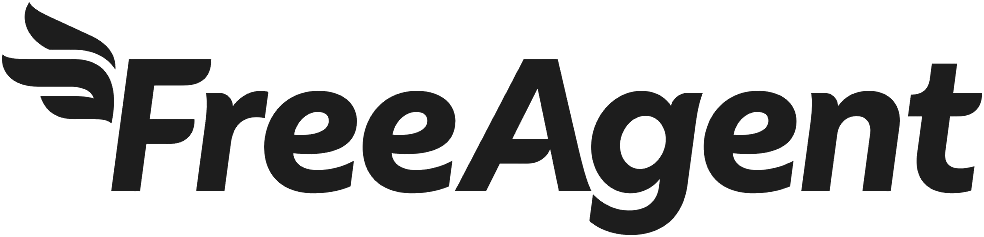
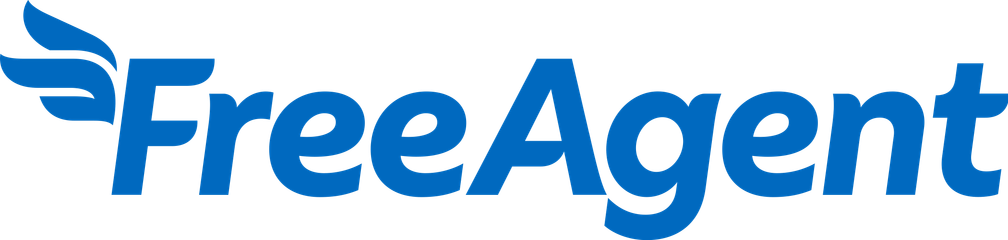
Updated home, header and forms

diff --git a/src/styles/pages.css b/src/styles/pages.css
@@ -59,6 +59,17 @@
 .prose ul { list-style: disc; } .prose ol { list-style: decimal; }
 .prose li + li { margin-top: .4em; }
 .prose li::marker { color: var(--color-secondary-deep); }
+/* tables (legal pages, insight articles) */
+.table-wrap { overflow-x: auto; }
+.prose table { width: 100%; border-collapse: separate; border-spacing: 0; font-size: .9375rem; line-height: 1.45; border: 1px solid var(--color-tint-20); border-radius: 14px; overflow: hidden; }
+.prose th, .prose td { padding: .625rem .875rem; text-align: left; vertical-align: top; border-bottom: 1px solid var(--color-tint-20); }
+.prose tr:last-child > * { border-bottom: 0; }
+.prose thead th { background: var(--color-primary-deep); color: var(--color-white); font-weight: 650; }
+.prose tbody th { color: var(--color-primary-deep); font-weight: 650; background: var(--color-tint-5); }
+.prose tbody tr:nth-child(even) td { background: var(--color-offwhite); }
+.prose td:not(:first-child) { font-variant-numeric: tabular-nums; }
+@media (max-width: 479px) { .prose table { display: block; overflow-x: auto; font-size: .875rem; } .prose th, .prose td { padding: .5rem .625rem; } }
+.prose h4 { font-size: 1.0625rem; margin-top: 1.25em; }
 .prose blockquote { border-left: 4px solid var(--color-primary); background: var(--color-tint-5); padding: 1rem 1.25rem; border-radius: 0 12px 12px 0; }
 .intro-text { margin-inline: auto; font-size: var(--fs-lead); }
 .intro-lead { font-size: clamp(1.1875rem, 1.1rem + .4vw, 1.4375rem); font-weight: 600; color: var(--color-primary-deep); line-height: 1.45; }
@@ -215,15 +226,55 @@
 .person-bio { font-size: .9688rem; margin-top: var(--s1); }
 
 /* ---- pricing page ---- */
-.price-grid { display: grid; gap: var(--s2); }
-@media (min-width: 640px) { .price-grid { grid-template-columns: repeat(2, 1fr); } }
-@media (min-width: 1024px) { .price-grid { grid-template-columns: repeat(4, 1fr); } }
-.price-tile { display: grid; gap: var(--s1); align-content: start; padding: var(--s3); border-radius: var(--radius); background: var(--color-tint-5); box-shadow: inset 0 4px 0 var(--g); }
-.price-tile-h { display: flex; align-items: center; gap: .5rem; font-size: 1.125rem; }
-.price-tile-h .icon { color: var(--g-text); flex: none; }
-.price-tile .price-from strong { font-size: 1.75rem; }
-.price-tile .price-note { font-size: .875rem; margin: 0; }
-.fine-print { margin-top: var(--s3); font-size: .875rem; color: var(--color-muted); max-width: 48rem; }
+/* "From £35 / month" (Price.astro, pricing rows) */
+.price-amount { display: flex; flex-wrap: wrap; align-items: baseline; justify-content: center; gap: .1rem .4rem; color: var(--color-primary-deep); }
+.price-amount-from, .price-amount-unit { font-weight: 650; font-size: 1rem; }
+.price-amount strong { font-size: clamp(2rem, 1.8rem + .8vw, 2.5rem); font-weight: 800; letter-spacing: -0.03em; line-height: 1.05; }
+.pricing-top { padding-block: 0; }
+.promise-strip { display: grid; gap: .75rem 1.5rem; padding: 1rem 1.25rem; border-radius: var(--radius); background: var(--color-tint-10); }
+@media (min-width: 640px) { .promise-strip { grid-template-columns: repeat(2, 1fr); } }
+@media (min-width: 1024px) { .promise-strip { grid-template-columns: repeat(4, auto); justify-content: space-between; padding-inline: 2rem; } }
+.promise-strip li { display: flex; align-items: center; gap: .625rem; font-weight: 650; color: var(--color-primary-deep); }
+.promise-tick { display: grid; place-items: center; flex: none; width: 1.75rem; height: 1.75rem; border-radius: 999px; border: 2px solid var(--color-secondary); color: var(--color-secondary-deep); }
+.pricing-cards { padding-top: clamp(2rem, 1.5rem + 2vw, 3rem); }
+
+.plan-grid { display: grid; gap: var(--s3); }
+@media (min-width: 640px) { .plan-grid { grid-template-columns: repeat(2, 1fr); } }
+@media (min-width: 1280px) { .plan-grid { grid-template-columns: repeat(4, 1fr); gap: var(--s2); } }
+.plan {
+  display: flex; flex-direction: column; gap: var(--s2); padding: var(--s3); border-radius: var(--radius); background: var(--color-white);
+  border: 1px solid var(--color-tint-20); box-shadow: inset 0 4px 0 var(--g), var(--shadow); transition: transform .3s var(--ease-out);
+}
+.plan:hover { transform: translateY(-4px); }
+.plan-head { display: flex; gap: .875rem; align-items: flex-start; }
+.plan-icon { display: grid; place-items: center; flex: none; width: 3rem; height: 3rem; border-radius: 14px; background: var(--g); color: var(--g-on); }
+.plan-title { font-size: 1.25rem; }
+.plan-blurb { margin-top: .375rem; font-size: .9375rem; color: var(--color-muted); line-height: 1.5; }
+.plan-price { padding: 1rem .75rem; border-radius: 14px; background: var(--color-tint-10); text-align: center; }
+.plan-detail { margin-top: .25rem; font-size: .875rem; color: var(--color-muted); }
+.plan-rows { display: grid; gap: .375rem; }
+.plan-rows > div { display: grid; gap: .125rem; padding: .625rem .875rem; border-radius: 12px; background: var(--color-tint-10); }
+.plan-rows dt { font-weight: 700; font-size: .875rem; color: var(--color-ink); }
+.plan-rows dd { color: var(--color-primary-deep); white-space: nowrap; }
+.plan-rows dd .price-amount-from, .plan-rows dd .price-amount-unit { font-size: .875rem; }
+.plan-rows dd strong { font-size: 1.5rem; font-weight: 800; letter-spacing: -0.02em; }
+.plan-ticks { font-size: .9375rem; }
+.plan-link { margin-top: auto; align-self: center; }
+
+.plan-note { display: grid; gap: var(--s2); align-items: center; margin-top: var(--s4); padding: var(--s3); border-radius: var(--radius); background: var(--color-tint-5); border: 1px solid var(--color-tint-20); }
+.plan-note-icon { display: none; color: var(--color-primary-deep); }
+.plan-note p { color: var(--color-ink); }
+.plan-note strong { color: var(--color-primary-deep); }
+.plan-note-actions { display: flex; flex-wrap: wrap; gap: .75rem; }
+@media (min-width: 1024px) {
+  .plan-note { grid-template-columns: auto minmax(0, 1fr) auto; gap: var(--s3); padding-inline: var(--s4); }
+  .plan-note-icon { display: block; }
+  .plan-note-actions { flex-wrap: nowrap; }
+}
+
+/* service page price card */
+.price-card .price-amount { justify-content: flex-start; }
+.price-card .plan-rows { min-width: min(100%, 20rem); }
 
 /* ---- contact ---- */
 .contact-grid { display: grid; gap: var(--s5); }
@@ -247,6 +298,7 @@
 .map-btn-n { font-size: .8125rem; color: var(--color-muted); padding-inline: var(--s3); text-align: center; }
 .map-frame { display: block; width: 100%; aspect-ratio: 4 / 3; border: 0; }
 .field-area { min-height: 9rem; resize: vertical; }
+.field-area--sm { min-height: 5.5rem; }
 
 /* ---- articles ---- */
 .article-head { max-width: calc(56rem + 2 * var(--gutter)); padding-block: var(--s4) var(--s5); }

diff --git a/src/styles/base.css b/src/styles/base.css
@@ -98,6 +98,8 @@
 .btn-primary:hover { background: var(--color-primary); color: var(--color-ink); }
 .btn-accent { background: var(--color-accent); color: var(--color-ink); }
 .btn-accent:hover { background: var(--color-white); color: var(--color-primary-deep); }
+.btn-green { background: var(--color-secondary-deep); color: var(--color-white); }
+.btn-green:hover { background: var(--color-secondary); color: var(--color-ink); }
 .btn-outline { border-color: var(--color-primary-deep); color: var(--color-primary-deep); background: transparent; }
 .btn-outline:hover { background: var(--color-primary-deep); color: var(--color-white); }
 .btn-ghost { color: var(--color-primary-deep); background: var(--color-tint-10); }
@@ -163,10 +165,19 @@
 .header-bar::after { content: ''; position: absolute; inset: auto 0 0 0; height: 1px; background: var(--color-tint-20); }
 .header-bar::before { content: ''; position: absolute; inset: 0; box-shadow: 0 8px 24px -12px rgb(5 69 140 / .25); opacity: 0; transition: opacity .35s; pointer-events: none; }
 .header-row { display: flex; align-items: center; gap: var(--s3); height: var(--header-h); transition: transform .35s var(--ease-out); }
-.brand { flex: none; display: block; margin-right: auto; transform-origin: left center; transition: transform .35s var(--ease-out); }
-.brand .logo { width: clamp(200px, 60vw, 270px); height: auto; }
-@media (min-width: 1024px) { .brand .logo { width: 250px; } }
-@media (min-width: 1280px) { .brand .logo { width: 330px; } }
+.brand { --logo-w: clamp(200px, 60vw, 270px); flex: none; display: block; margin-right: auto; transform-origin: left center; transition: transform .35s var(--ease-out); text-decoration: none; }
+.brand .logo { width: var(--logo-w); height: auto; }
+@media (min-width: 1024px) { .brand { --logo-w: 250px; } }
+@media (min-width: 1280px) { .brand { --logo-w: 330px; } }
+/* "Tax | Accounting | Assurance | Consulting", spread under the wordmark (which starts 14.6% in). */
+.brand-line {
+  display: flex; align-items: center; justify-content: space-between; gap: .375em;
+  width: var(--logo-w); padding-left: calc(var(--logo-w) * .146); margin-top: calc(var(--logo-w) * .012);
+  font-size: max(10px, calc(var(--logo-w) * .043)); font-weight: 650; line-height: 1.1; letter-spacing: .02em; white-space: nowrap;
+  color: var(--color-primary-deep);
+}
+.brand-sep { flex: none; width: 1.5px; height: .9em; border-radius: 1px; background: var(--color-secondary); }
+@media (max-width: 479px) { .brand-line { padding-left: 0; } }
 .site-header[data-scrolled] { transform: translateY(-0.75rem); }
 .site-header[data-scrolled] .header-row { transform: translateY(0.375rem); }
 .site-header[data-scrolled] .brand { transform: scale(.88); }
@@ -319,6 +330,7 @@
 .help-opt.is-active { background: var(--color-tint-10); color: var(--color-primary-deep); }
 .help-opt[aria-selected='true'] { color: var(--color-primary-deep); }
 .help-opt[aria-selected='true'] .help-opt-check { opacity: 1; }
+.help-opt--all { margin-bottom: .25rem; box-shadow: 0 1px 0 var(--color-tint-10); }
 .help-btn { flex: none; }
 @media (max-width: 639px) { .help-btn { width: 100%; } }
 
@@ -367,7 +379,7 @@
 /* ---- who we help ---- */
 .who-grid { display: grid; gap: var(--s3); }
 @media (min-width: 768px) { .who-grid { grid-template-columns: repeat(2, 1fr); } }
-@media (min-width: 1024px) { .who-grid { grid-template-columns: repeat(3, 1fr); } }
+@media (min-width: 1280px) { .who-grid { grid-template-columns: repeat(4, 1fr); } }
 .who-card { position: relative; display: flex; flex-direction: column; overflow: hidden; }
 .who-img { width: 100%; object-fit: cover; }
 .who-body { display: grid; gap: var(--s2); align-content: start; flex: 1; }
@@ -526,7 +538,7 @@
 .footer-top { display: grid; gap: var(--s5); padding-block: var(--s8) var(--s6); }
 @media (min-width: 1024px) { .footer-top { grid-template-columns: minmax(0, 4fr) minmax(0, 8fr); gap: var(--s8); } }
 .footer-brand { display: grid; gap: var(--s2); align-content: start; }
-.footer-brand .logo { width: 240px; }
+.footer-brand .brand { --logo-w: 240px; margin-right: 0; justify-self: start; }
 .footer-desc { color: var(--color-muted); max-width: 22rem; }
 .footer-cols { display: grid; grid-template-columns: repeat(2, minmax(0, 1fr)); gap: var(--s4) var(--s3); }
 @media (min-width: 768px) { .footer-cols { grid-template-columns: minmax(0, 1fr) minmax(0, 1fr) minmax(0, 1.5fr); } }

diff --git a/src/data/site.ts b/src/data/site.ts
@@ -8,6 +8,8 @@ export const site = {
   name: 'Apex Global',
   legalName: 'Apex Global Consulting Services Limited',
   tagline: 'Beyond numbers. Beyond borders.',
+  // Shown under the logo in the header and footer.
+  serviceLine: ['Tax', 'Accounting', 'Assurance', 'Consulting'],
   companyNumber: '15905648',
   registration: 'Registered in England and Wales under the Companies Act 2006',
   registeredIn: 'England and Wales',
@@ -20,6 +22,9 @@ export const site = {
     country: 'United Kingdom',
     countryCode: 'GB',
   },
+  // Registered office at Companies House (differs from the trading office above).
+  registeredOffice: 'Office 5793, Peregrine Road, Ilford, England, IG6 3SZ',
+  icoNumber: 'ZB825809',
   geo: { lat: 53.3936, lng: -2.3586 }, // approximate: Atlantic Street, Altrincham
   phone: { display: '+44 (0) 204 553 8806', tel: '+442045538806' },
   email: 'info@apexglobalconsultants.co.uk',
@@ -35,8 +40,11 @@ export const site = {
   ] as { name: 'LinkedIn' | 'Facebook' | 'Instagram' | 'X'; url: string }[],
   hours: 'Monday to Friday, 9:00 to 17:30',
   compliance: {
-    amlSupervisor: '[TO VERIFY] anti-money-laundering supervisory body',
-    professionalBody: '[TO VERIFY] professional body membership, if any',
+    amlSupervisorName: 'the Institute of Accountants and Bookkeepers (IAB)',
+    amlSupervisor:
+      'Apex Global Consulting Services Limited is supervised for anti-money laundering purposes by the Institute of Accountants and Bookkeepers (IAB).',
+    professionalBody:
+      'Our director, Sandeep Kumar, is a Fellow of the Institute of Chartered Accountants of Pakistan (FCA, ICAP) and a member of the Association of Chartered Certified Accountants (ACCA).',
     piInsurer: '[TO VERIFY] professional indemnity insurer',
     piTerritory: '[TO VERIFY] territorial coverage of PI insurance',
   },
@@ -46,13 +54,15 @@ export const site = {
     title: 'Accounting and tax,',
     titleAccent: 'handled with precision.',
     line: 'One dedicated accountant for your books, payroll, tax and reporting, at a fixed fee agreed before we start.',
-    points: ['Fixed fees, VAT shown upfront', 'UK and overseas companies', 'Cloud accounting set up for you'],
+    points: ['Fixed fees', 'UK and overseas companies', 'Cloud accounting set up for you'],
   },
 } as const;
 
 export const whatsappHref = `https://wa.me/${site.whatsapp.number}`;
 export const telHref = `tel:${site.phone.tel}`;
 export const mailHref = `mailto:${site.email}`;
+/** "File your tax return" buttons: the contact form with Taxation preselected (forms.ts). */
+export const taxReturnHref = '/contact/?service=Taxation&subject=Tax%20return#book';
 // Standard UK order: office, street, town, county, postcode, country.
 export const addressLines = [
   site.address.line1,

diff --git a/src/data/home.ts b/src/data/home.ts
@@ -2,12 +2,13 @@
  * Homepage copy that is not a content collection. Edit text here, not in components.
  */
 export const why = {
-  title: 'Why businesses choose Apex',
+  eyebrow: 'Why Apex Global',
+  title: 'Why businesses choose Apex Global',
   intro: 'Six things you can hold us to from the first conversation.',
   points: [
     { icon: 'scales', title: 'Big-firm expertise, SME fees', text: 'Technical knowledge of IFRS, UK GAAP and tax, priced for owner-managed businesses.' },
     { icon: 'users', title: 'One dedicated accountant', text: 'The same person handles your work, learns your business and answers your calls.' },
-    { icon: 'pound', title: 'Fixed fees agreed upfront', text: 'A written quote before we start, with VAT shown clearly. No surprise bills.' },
+    { icon: 'pound', title: 'Fixed fees agreed upfront', text: 'A written quote before we start, so you know the cost. No surprise bills.' },
     { icon: 'globe', title: 'UK and international', text: 'Support for UK companies and overseas groups running a UK entity.' },
     { icon: 'cloud', title: 'Cloud accounting set up', text: 'We set up, migrate and train you on cloud software, so your numbers stay current.' },
     { icon: 'clock', title: 'Fast, clear responses', text: 'Straight answers in plain English, without waiting weeks for a reply.' },
@@ -19,9 +20,9 @@ export const steps = {
   intro: 'A clear path from first call to ongoing support.',
   items: [
     { title: 'Free consultation', text: 'A 30-minute call about your business, deadlines and what you need.' },
-    { title: 'Fixed-fee proposal', text: 'A written proposal with a fixed fee and VAT shown, so you know the cost.' },
-    { title: 'Engagement letter & ID checks', text: 'You sign online and complete identity checks securely through our portal.' },
-    { title: 'Onboarding & HMRC authorisation', text: 'We get agent access, collect your records and take over the deadlines.' },
+    { title: 'Fixed-fee proposal', text: 'A written proposal with a fixed fee, so you know the cost before we start.' },
+    { title: 'Engagement letter & KYC checks', text: 'You sign our engagement letter online and complete know-your-client (KYC) identity checks securely.' },
+    { title: 'Onboarding & HMRC authorisation', text: 'We collect your records, take over the deadlines and, for tax work, get HMRC agent authorisation.' },
     { title: 'Ongoing support', text: 'Your dedicated accountant keeps everything on track all year round.' },
   ],
 } as const;

diff --git a/src/scripts/forms.ts b/src/scripts/forms.ts
@@ -48,8 +48,22 @@ const statusMessages: Record<string, string> = {
   error: 'Sorry, your message could not be sent. Please try again, or call or email us directly.',
 };
 
+/** Links such as "File your tax return" open the contact form with a service and subject filled in. */
+function prefill(params: URLSearchParams) {
+  const form = document.querySelector<HTMLFormElement>('#book form[data-form]');
+  if (!form) return;
+  const service = params.get('service');
+  const select = form.querySelector<HTMLSelectElement>('select[name="service"]');
+  if (service && select && [...select.options].some((o) => o.value === service)) select.value = service;
+  const subject = params.get('subject');
+  const input = form.querySelector<HTMLInputElement>('input[name="subject"]');
+  if (subject && input && !input.value) input.value = subject.slice(0, 120);
+}
+
 export function initForms(signal: AbortSignal) {
-  const status = new URLSearchParams(location.search).get('status');
+  const params = new URLSearchParams(location.search);
+  prefill(params);
+  const status = params.get('status');
   const box = status && statusMessages[status] ? document.querySelector<HTMLElement>('#book [data-form-error]') : null;
   if (box) {
     box.textContent = statusMessages[status!];

diff --git a/public/contact.php b/public/contact.php
@@ -130,6 +130,7 @@ $email = apex_line('email', 150);
 $phone = preg_replace('/[^0-9+()\s-]/', '', apex_line('phone', 30)) ?? '';
 $company = apex_line('company', 120);
 $service = apex_line('service', 80);
+$subject = apex_line('subject', 120);
 $bestTime = apex_line('best_time', 20);
 $source = apex_line('source', 200);
 $message = apex_text('message', 3000);
@@ -163,13 +164,14 @@ function apex_mailer(array $cfg): PHPMailer
     return $m;
 }
 
-$labels = ['callback' => 'callback request', 'enquiry' => 'enquiry', 'newsletter' => 'newsletter signup'];
+$labels = ['callback' => 'call back request', 'enquiry' => 'enquiry', 'newsletter' => 'newsletter signup'];
 $lines = array_filter([
     'Form' => ucfirst($labels[$type]),
     'Name' => $name,
     'Email' => $email,
     'Phone' => $phone,
     'Company' => $company,
+    'Subject' => $subject,
     'Service' => $service,
     'Best time to call' => $bestTime,
     'Page' => $source,
@@ -187,7 +189,7 @@ try {
     $m = apex_mailer($cfg);
     $m->addAddress((string) $cfg['to_email']);
     $m->addReplyTo($email, $name); // PHPMailer validates and rejects line breaks
-    $m->Subject = 'Apex Global website enquiry: ' . $labels[$type] . ($name !== '' ? ' from ' . $name : '');
+    $m->Subject = 'Apex Global website enquiry: ' . $labels[$type] . ($name !== '' ? ' from ' . $name : '') . ($subject !== '' ? ' (' . $subject . ')' : '');
     $m->Body = $body;
     $m->send();
 } catch (MailException $e) {

diff --git a/src/content/audiences/individuals-and-sole-traders.md b/src/content/audiences/individuals-and-sole-traders.md
@@ -1,0 +1,28 @@
+---
+title: Tax returns and accounts for individuals and sole traders
+shortTitle: Individuals & Sole Traders
+order: 4
+summary: Self-employed people, landlords, contractors and individuals with income outside PAYE who want their tax return done properly and on time.
+image: ../../assets/services/taxation.jpg
+imageAlt: A person working through tax forms with a calculator and pen
+seoTitle: Accountants for individuals and sole traders | Apex Global
+seoDescription: Self Assessment tax returns, bookkeeping and Making Tax Digital support for sole traders, landlords and individuals, at a fixed fee agreed upfront.
+promise: "Your tax return filed accurately and on time, with every allowable expense claimed."
+benefits:
+  - "Self Assessment returns at a fixed fee"
+  - "Expenses and allowances checked properly"
+  - "Making Tax Digital set up for you"
+challenges:
+  - Not knowing which expenses you can claim, or whether to use simplified mileage or actual costs.
+  - Payments on account and the 31 January and 31 July deadlines arriving as a surprise.
+  - Making Tax Digital for Income Tax and quarterly updates to HMRC.
+  - A letter from HMRC about income you were not sure you had to declare.
+services:
+  - taxation
+  - bookkeeping
+  - payroll-processing
+---
+
+Whether you are a sole trader, a landlord, a ride-hailing driver or have income outside your PAYE job, we prepare and file your Self Assessment tax return and make sure you claim everything you are entitled to.
+
+We keep your records in simple software, tell you what to set aside for tax each month, and look after the deadlines, including Making Tax Digital quarterly updates when they apply to you. If you take on staff, we can run your payroll too.

diff --git a/docs/image-licenses.md b/docs/image-licenses.md
@@ -46,6 +46,9 @@ with visible third-party logos; anything without a licence that allows commercia
 | `src/assets/hero/hero-square.jpg` | Unsplash Licence | https://images.unsplash.com/photo-1551836022-d5d88e9218df | [TO VERIFY] photographer name from unsplash.com | 2026-10-31 | Square crop, light brand grade |
 | `src/assets/hero/scene-team.jpg`, `scene-laptop.jpg` | (see rows above) | | | | Alternative hero scenes, not used yet |
 | `src/assets/software/*.png` | Third-party trademarks, supplied by client | WhatsApp images from client | Xero, Intuit (QuickBooks), Sage, FreeAgent | 2026-10-30 | Background removed; use per each vendor's brand guidelines |
+| `src/assets/software/freeagent.png` | Third-party trademark (FreeAgent) | Official vector logo from freeagent.com, replaced at the client's request | FreeAgent Central Ltd | 2026-11-06 | Rendered in FreeAgent brand blue #0069bf on transparent, 1008x240 |
+| `src/assets/insights/making-tax-digital.jpg`, `payroll-essentials.jpg`, `audit-thresholds.jpg`, `ifrs-for-smes.jpg`, `cash-flow-errors.jpg`, `taxi-drivers-tax.jpg`, `start-up-loans.jpg` | Original artwork (Apex Global) | Generated from SVG in the brand palette, using the site's own line icons | Apex Global website build | 2026-11-06 | None; no text, no third-party marks |
+| `src/content/audiences/individuals-and-sole-traders.md` image | (see `src/assets/services/taxation.jpg` row) | | | | Reuses the taxation photo |
 | `src/assets/badges/sample-badge-*.png` | Sample (draft only, never published) | Generated | n/a | n/a | Replace with client-supplied logos |
 
 **Rejected:** the previously supplied `hero.mp4` (Tower Bridge sunset) is an iStock by Getty Images

diff --git a/src/content/audiences/uk-small-and-medium-businesses.md b/src/content/audiences/uk-small-and-medium-businesses.md
@@ -10,7 +10,7 @@ seoDescription: Fixed-fee bookkeeping, tax, payroll and annual accounts for UK s
 promise: "Reliable numbers, on-time filings and an accountant who knows your business."
 benefits:
   - "One dedicated accountant, not a call centre"
-  - "Fixed monthly fee agreed upfront, VAT stated"
+  - "Fixed monthly fee agreed upfront"
   - "Books, payroll and tax handled in one place"
 challenges:
   - Books that are always a few months behind, so decisions are made on old numbers.
@@ -25,6 +25,6 @@ services:
   - management-reporting
 ---
 
-You run the business; we keep the numbers accurate and the filings on time. You get one dedicated accountant who learns how your business works, a fixed fee agreed upfront with VAT shown, and clear answers when you need them.
+You run the business; we keep the numbers accurate and the filings on time. You get one dedicated accountant who learns how your business works, a fixed fee agreed upfront, and clear answers when you need them.
 
 As you grow, we add what you need: payroll when you take on staff, management reporting when you need sharper information, and cloud accounting that scales with you.
